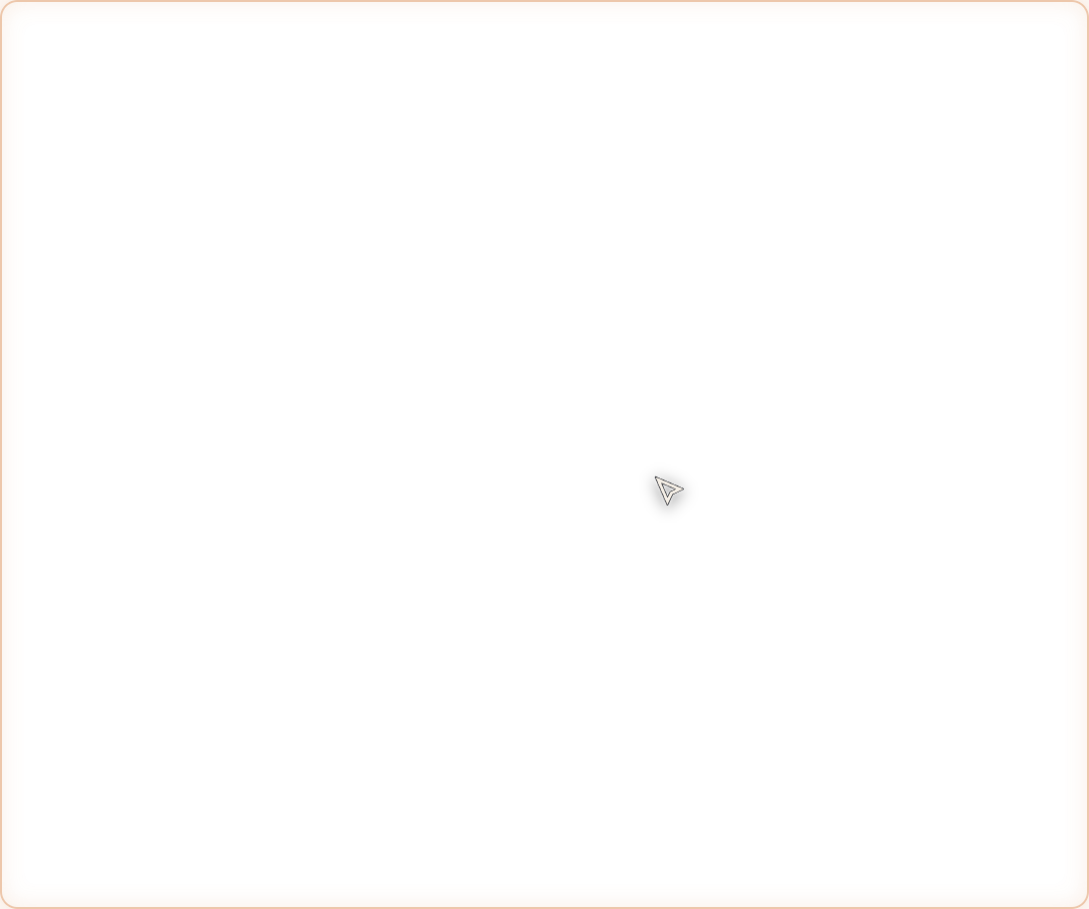
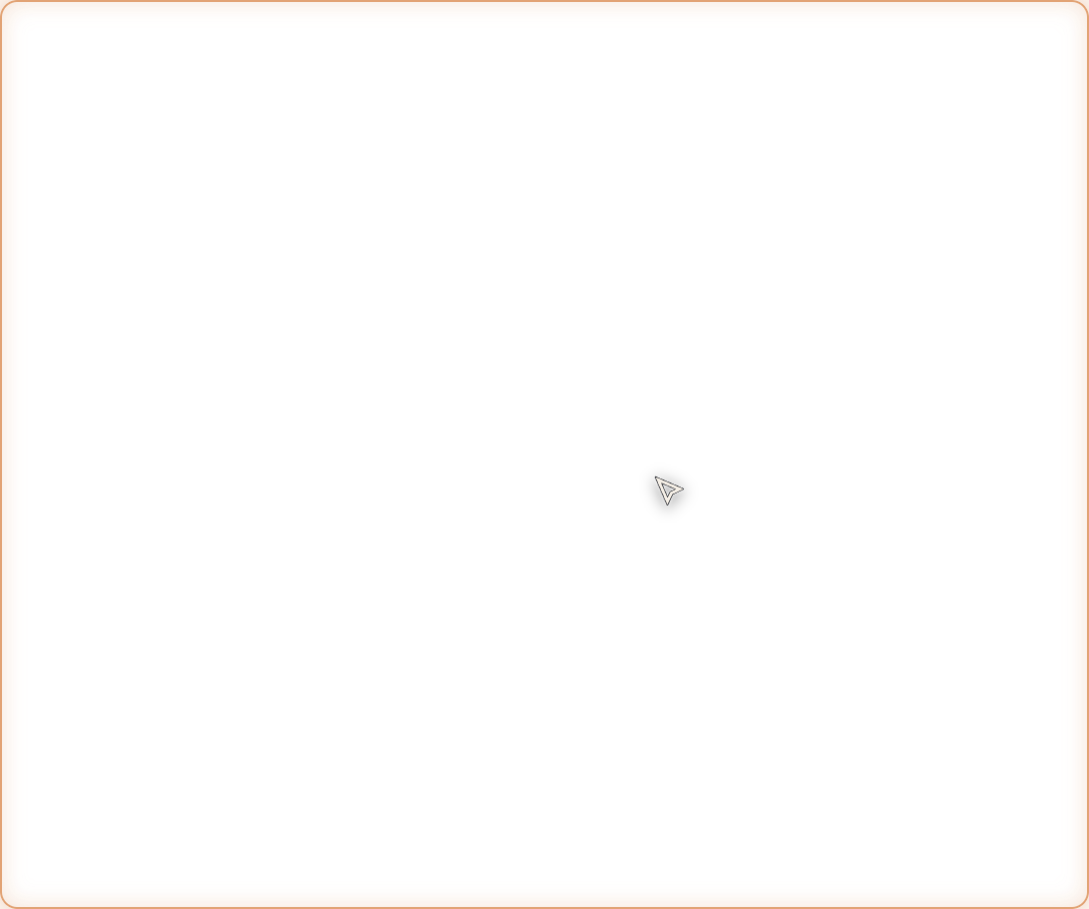
fix(browser/chat): 任务分支改为操作前切点；关折叠回空白会话；网络重试与轮次上限；去产物外框
- 首次动作记录回合起点的消息数；回合结束 fork 只带操作前历史，本轮消息搬到分支，原会话保留操作前讨论
- 任务标记/工作区过户给分支；chat:taskForked 刷新会话列表并切到分支（任务/分支徽标可见）
- 关闭折叠工作区后新建空白会话并切走；切换普通会话只显示用户标签
- 新建标签页永远进 USER 组并 showUserTabs，修复一次出现两个新建页/两个折叠 chip
- LLM 网络错误（fetch failed/ECONNRESET/…）纳入重试；默认轮次上限 40→80
- 产物面板去掉外框/阴影；四角遮罩色改为实际外壳 #171B22
- 四角遮罩窗口随主窗口销毁，修复 app.quit 卡住（E2E 超时）

Changed region(s): [[0.9679, 0.0, 1.0, 0.9857], [0.0, 0.9857, 0.9991, 1.0], [0.0, 0.0, 0.0312, 0.0308]]

diff --git a/packages/shell/src/main/index.ts b/packages/shell/src/main/index.ts
@@ -1848,6 +1848,9 @@ app.whenReady().then(async () => {
   const tabSaveTimers = new Map<string, NodeJS.Timeout>();
   /** 本轮首次动作触发任务化：等回合一结束就把任务身份过户给「从操作阶段分出的分支」。 */
   const pendingTaskForks = new Set<string>();
+  /** 本回合开始前的消息数：任务分支必须从这里切，分支点在「浏览器操作之前」。 */
+  const turnStartCounts = new Map<string, number>();
+  const pendingTaskKeep = new Map<string, number>();
   /** 全局用户标签的落盘文件（不属于任何会话）。 */
   const userTabsFile = path.join(dirs.dataDir, "browser-user-tabs.json");
   const queueBrowserStateSave = (sessionId: string, state: PersistedBrowserState): void => {
@@ -1956,6 +1959,7 @@ app.whenReady().then(async () => {
         // 动作期间先把当前会话临时当任务（折叠页立即出现）；回合结束后再把它过户给分支。
         sessions.setTask(sessionId, true);
         pendingTaskForks.add(sessionId);
+        pendingTaskKeep.set(sessionId, turnStartCounts.get(sessionId) ?? 0);
       },
       // 首次动作克隆出可见页面：光标从这一刻起常驻，直到本轮结束。
       onAgentActing: (sessionId) => holdPointerForAgent(sessionId),
@@ -2152,6 +2156,7 @@ app.whenReady().then(async () => {
      * 结束或用户停止后解锁。锁由壳层下发，因此后台会话、独立小窗、无窗口都成立。
      */
     onTurnStarted: (sessionId) => {
+      turnStartCounts.set(sessionId, sessions.get(sessionId)?.messages.length ?? 0);
       // 呼吸灯也按「轮次」而不是单次工具调用：工具执行只有几百毫秒，用户根本看不到。
       pushToRenderer("chrome:agentTurn", { sessionId, running: true });
       if (!browserHost) return;
@@ -2175,9 +2180,13 @@ app.whenReady().then(async () => {
       // 分支能完整带上「Agent 控制发生时的会话阶段」，原会话则恢复为普通讨论。
       if (pendingTaskForks.delete(sessionId) && browserHost) {
         const source = sessions.get(sessionId);
+        const keep = pendingTaskKeep.get(sessionId) ?? Math.max(0, (source?.messages.length ?? 0) - 2);
+        pendingTaskKeep.delete(sessionId);
         if (source) {
-          const fork = sessions.fork(sessionId, source.messages.length, undefined, { activate: false });
+          // 分支点在操作前：fork 只拿 keep 之前的历史；本轮用户消息+回复搬到分支。
+          const fork = sessions.fork(sessionId, keep, undefined, { activate: false });
           if (fork) {
+            sessions.moveTail(sessionId, fork.sessionId, keep);
             sessions.setTask(sessionId, false);
             sessions.setTask(fork.sessionId, true);
             browserHost.reassignSession(sessionId, fork.sessionId);

diff --git a/packages/core/src/llm/openai.ts b/packages/core/src/llm/openai.ts
@@ -391,9 +391,16 @@ export function createOpenAiClient(opts: OpenAiClientOptions): LlmClient {
             // 绝不能重试、也不能转成 error chunk（UI 会当成红色失败并继续显示思考中）。
             if (req.signal?.aborted) throw err;
             if (emitted) throw err; // 已开始输出：不重试，避免重复内容
-            const retryable = err instanceof RetryableError;
+            // fetch failed / ECONNRESET 等网络错误不是 RetryableError，但它们是瞬时的：
+            // 之前直接放弃成「重试 0 次后失败」，长任务里看着就像模型莫名截断。
+            const errText = err instanceof Error
+              ? `${err.message} ${String((err as { cause?: unknown }).cause ?? "")}`
+              : String(err);
+            const networkRetryable = /fetch failed|ECONNRESET|ECONNREFUSED|ETIMEDOUT|EAI_AGAIN|ENOTFOUND|socket hang up|network/i.test(errText);
+            const retryErr = err instanceof RetryableError ? err : null;
+            const retryable = retryErr !== null || networkRetryable;
             // 429 自带更严的重试上限（Lead 要求最多 1~2 次），避免长等待刷屏
-            const retryLimit = retryable && err.maxAttempts !== undefined ? Math.min(maxRetries, err.maxAttempts) : maxRetries;
+            const retryLimit = retryErr && retryErr.maxAttempts !== undefined ? Math.min(maxRetries, retryErr.maxAttempts) : maxRetries;
             if (!retryable || attempt >= retryLimit) {
               yield {
                 kind: "error",
@@ -401,7 +408,7 @@ export function createOpenAiClient(opts: OpenAiClientOptions): LlmClient {
               };
               return;
             }
-            const waitMs = err.retryAfterMs || DEFAULT_RETRY_BACKOFF[Math.min(attempt, DEFAULT_RETRY_BACKOFF.length - 1)];
+            const waitMs = retryErr?.retryAfterMs || DEFAULT_RETRY_BACKOFF[Math.min(attempt, DEFAULT_RETRY_BACKOFF.length - 1)];
             // 退避等待也要可中止：否则停止后还要空等 1~7s 才轮到下一次（或下一次 invokeOnce）观察信号
             await new Promise<void>((resolve) => {
               const done = (): void => {

diff --git a/packages/shell/src/main/sessionStore.ts b/packages/shell/src/main/sessionStore.ts
@@ -565,6 +565,23 @@ export class SessionStore {
     return true;
   }
 
+  /** 把 source 从 keep 之后的消息整体搬到 target（首次动作的任务分支：原会话留操作前，分支拿操作回合）。 */
+  moveTail(sourceId: string, targetId: string, keep: number): boolean {
+    const source = this.get(sourceId);
+    const target = this.get(targetId);
+    if (!source || !target) return false;
+    const k = Math.max(0, Math.min(Math.floor(keep), source.messages.length));
+    const tail = source.messages.slice(k);
+    if (tail.length === 0) return false;
+    target.messages.push(...tail);
+    target.updatedAt = Date.now();
+    source.messages = source.messages.slice(0, k);
+    source.updatedAt = Date.now();
+    this.save(target);
+    this.save(source);
+    return true;
+  }
+
   remove(id: string): boolean {
     const file = this.sessionFile(id);
     if (!file) return false;

diff --git a/packages/ui/src/App.tsx b/packages/ui/src/App.tsx
@@ -1775,8 +1775,12 @@ export default function App(): React.JSX.Element {
       lastSyncedUrlRef.current = url;
       setAddress(url);
       setCurrentUrl(url);
+      // 关掉折叠工作区 = 任务结束：离开特殊会话，回到一个新的空白会话。
+      if (tabs.some((tab) => tab.agentBound === true)) {
+        await createFreshSessionAndTab({ newBlankTab: true }).catch(() => undefined);
+      }
     })();
-  }, [api, tabs]);
+  }, [api, tabs, createFreshSessionAndTab]);
 
   const goBack = useCallback((): void => {
     if (!api) return;
@@ -2005,6 +2009,7 @@ export default function App(): React.JSX.Element {
     return api.on("chat:taskForked", (payload) => {
       const to = (payload as { to?: string } | null)?.to;
       if (!to) return;
+      refreshSessions();
       switchSession(to);
       void api.browser
         .showTask({ sessionId: to })

diff --git a/packages/ui/src/Settings.tsx b/packages/ui/src/Settings.tsx
@@ -619,9 +619,9 @@ export default function Settings({ api, onClose, onPreferencesSaved, initialSect
           <Field l={tr("settings.general.restoreSession")}><Toggle v={prefs.restoreSession} on={(x) => setPrefs({ ...prefs, restoreSession: x })} /></Field>
           <Field l={tr("settings.general.maxRounds")} h={tr("settings.general.maxRoundsHint")}>
             <In
-              v={String(prefs.agentMaxRounds ?? 40)}
+              v={String(prefs.agentMaxRounds ?? 80)}
               ph="40"
-              on={(x) => setPrefs({ ...prefs, agentMaxRounds: Math.max(1, Math.min(500, Number(x) || 40)) })}
+              on={(x) => setPrefs({ ...prefs, agentMaxRounds: Math.max(1, Math.min(500, Number(x) || 80)) })}
             />
           </Field>
           <Field l={tr("settings.general.maxToolCalls")} h={tr("settings.general.maxToolCallsHint")}>

diff --git a/packages/core/src/preferences.ts b/packages/core/src/preferences.ts
@@ -27,7 +27,7 @@ export const DEFAULT_PREFERENCES: Preferences = {
   theme: "soft",
   sidebarMode: "docked",
   browserOpenLayout: "docked",
-  agentMaxRounds: 40,
+  agentMaxRounds: 80,
   agentMaxToolCalls: 100,
   agentRepeatToolWarn: 5,
   agentRepeatToolStop: 30,
@@ -59,7 +59,7 @@ export function mergePreferences(raw: unknown): Preferences {
     downloadDir: parsed.data.downloadDir ?? "",
     workspaceRoot: parsed.data.workspaceRoot ?? "",
     memoryStorePath: parsed.data.memoryStorePath ?? "",
-    agentMaxRounds: parsed.data.agentMaxRounds ?? 40,
+    agentMaxRounds: parsed.data.agentMaxRounds ?? 80,
     agentMaxToolCalls: parsed.data.agentMaxToolCalls ?? 100,
     agentRepeatToolWarn: parsed.data.agentRepeatToolWarn ?? 5,
     agentRepeatToolStop: parsed.data.agentRepeatToolStop ?? 30,

diff --git a/packages/shell/src/main/electronBrowser.ts b/packages/shell/src/main/electronBrowser.ts
@@ -408,6 +408,11 @@ export function createElectronBrowserHost(
     });
     cornerWindow.setIgnoreMouseEvents(true);
     void cornerWindow.loadURL("data:text/html;charset=utf-8," + encodeURIComponent(cornerHtml));
+    // 子窗口不会自动随父窗口销毁；不手动收掉会让 app.quit 一直等它（E2E/退出卡住）。
+    parent.once("closed", () => {
+      if (cornerWindow && !cornerWindow.isDestroyed()) cornerWindow.destroy();
+      cornerWindow = null;
+    });
     return cornerWindow;
   };
 

diff --git a/packages/ui/index.html b/packages/ui/index.html
@@ -1226,7 +1226,7 @@
     a.ref-chip { color: var(--ls-accent-hover); cursor: pointer; }
     a.ref-chip:hover { border-color: var(--ls-accent-hover); }
 
-    .product-panel { margin: 8px 0 2px; }
+    .product-panel { margin: 8px 0 2px; border: 0 !important; box-shadow: none !important; background: transparent !important; }
     .product-panel-head { font-size: 11.5px; font-weight: 600; color: #a8a296; margin-bottom: 4px; }
     .product-grid { display: flex; flex-wrap: wrap; gap: 6px; }
     .product-card {
